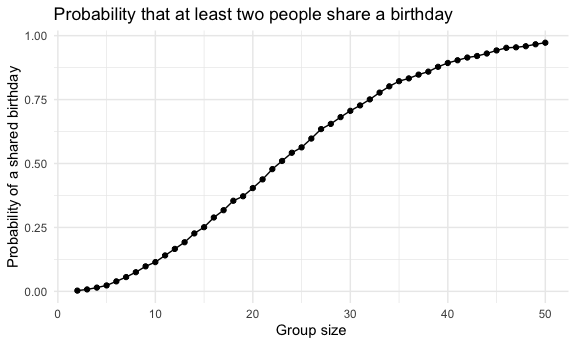
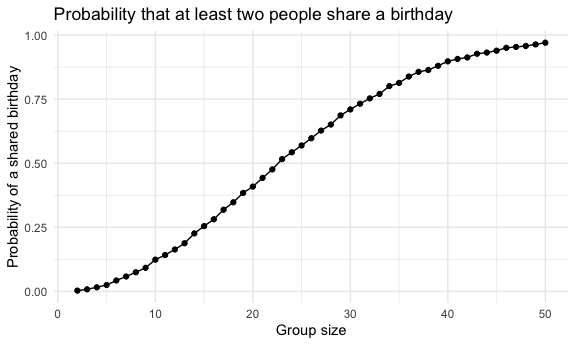
Plot 3: P(rejecting the null) vs. true mean

diff --git a/p8105_hw5_adv2123.md b/p8105_hw5_adv2123.md
@@ -95,8 +95,8 @@ prob_50 =
 The probability that at least two people share a birthday increases
 quickly and non-linearly with group size. It is close to 0 for very
 small groups, but by around group size of 23 it goes above 50%
-(estimated mean = 0.51). By a group size of 50, the estimated
-probability is 0.972, so a shared birthday is almost certain. This is
+(estimated mean = 0.516). By a group size of 50, the estimated
+probability is 0.97, so a shared birthday is almost certain. This is
 much higher than most people would guess, because the number of possible
 pairs of people grows much faster than the number of people.
 
@@ -243,7 +243,7 @@ sim_t_test(mu = 0)
     ## # A tibble: 1 × 2
     ##   mu_hat p_value
     ##    <dbl>   <dbl>
-    ## 1 -0.546   0.491
+    ## 1  0.223   0.804
 
 ### 3.3 Generate 5000 datasets from the model
 
@@ -260,4 +260,32 @@ sim_results_df =
   mutate(rejected = p_value < 0.05)
 ```
 
-\`
+\###. 3.4 Plot 3: Proportion of times the null was rejected vs. true
+mean
+
+``` r
+power_df =
+  sim_results_df |>
+  group_by(true_mu) |>
+  summarize(power = mean(rejected))
+
+power_df |>
+  ggplot(aes(x = true_mu, y = power)) +
+  geom_point() +
+  geom_line() +
+  labs(
+    title = "Power of the one-sample t-test by true mean",
+    x = "True value of mu",
+    y = "Proportion of times the null was rejected"
+  )
+```
+
+<img src="p8105_hw5_adv2123_files/figure-gfm/unnamed-chunk-12-1.png" alt="" width="90%" />
+
+Power increases as the effect size increases. When mu = 0, the null is
+true and it is rejected 0.051 of the time, which is close to alpha =
+0.05 as expected. Power is low for small effects (0.1776 when mu = 1),
+increases quickly for moderate effects (0.8898 when mu = 3), and is
+essentially 1 for large effects (1 when mu = 6). Because n and sigma are
+fixed, a larger true mean is further from the null value of 0, which
+makes the difference easier to detect and increases power.
